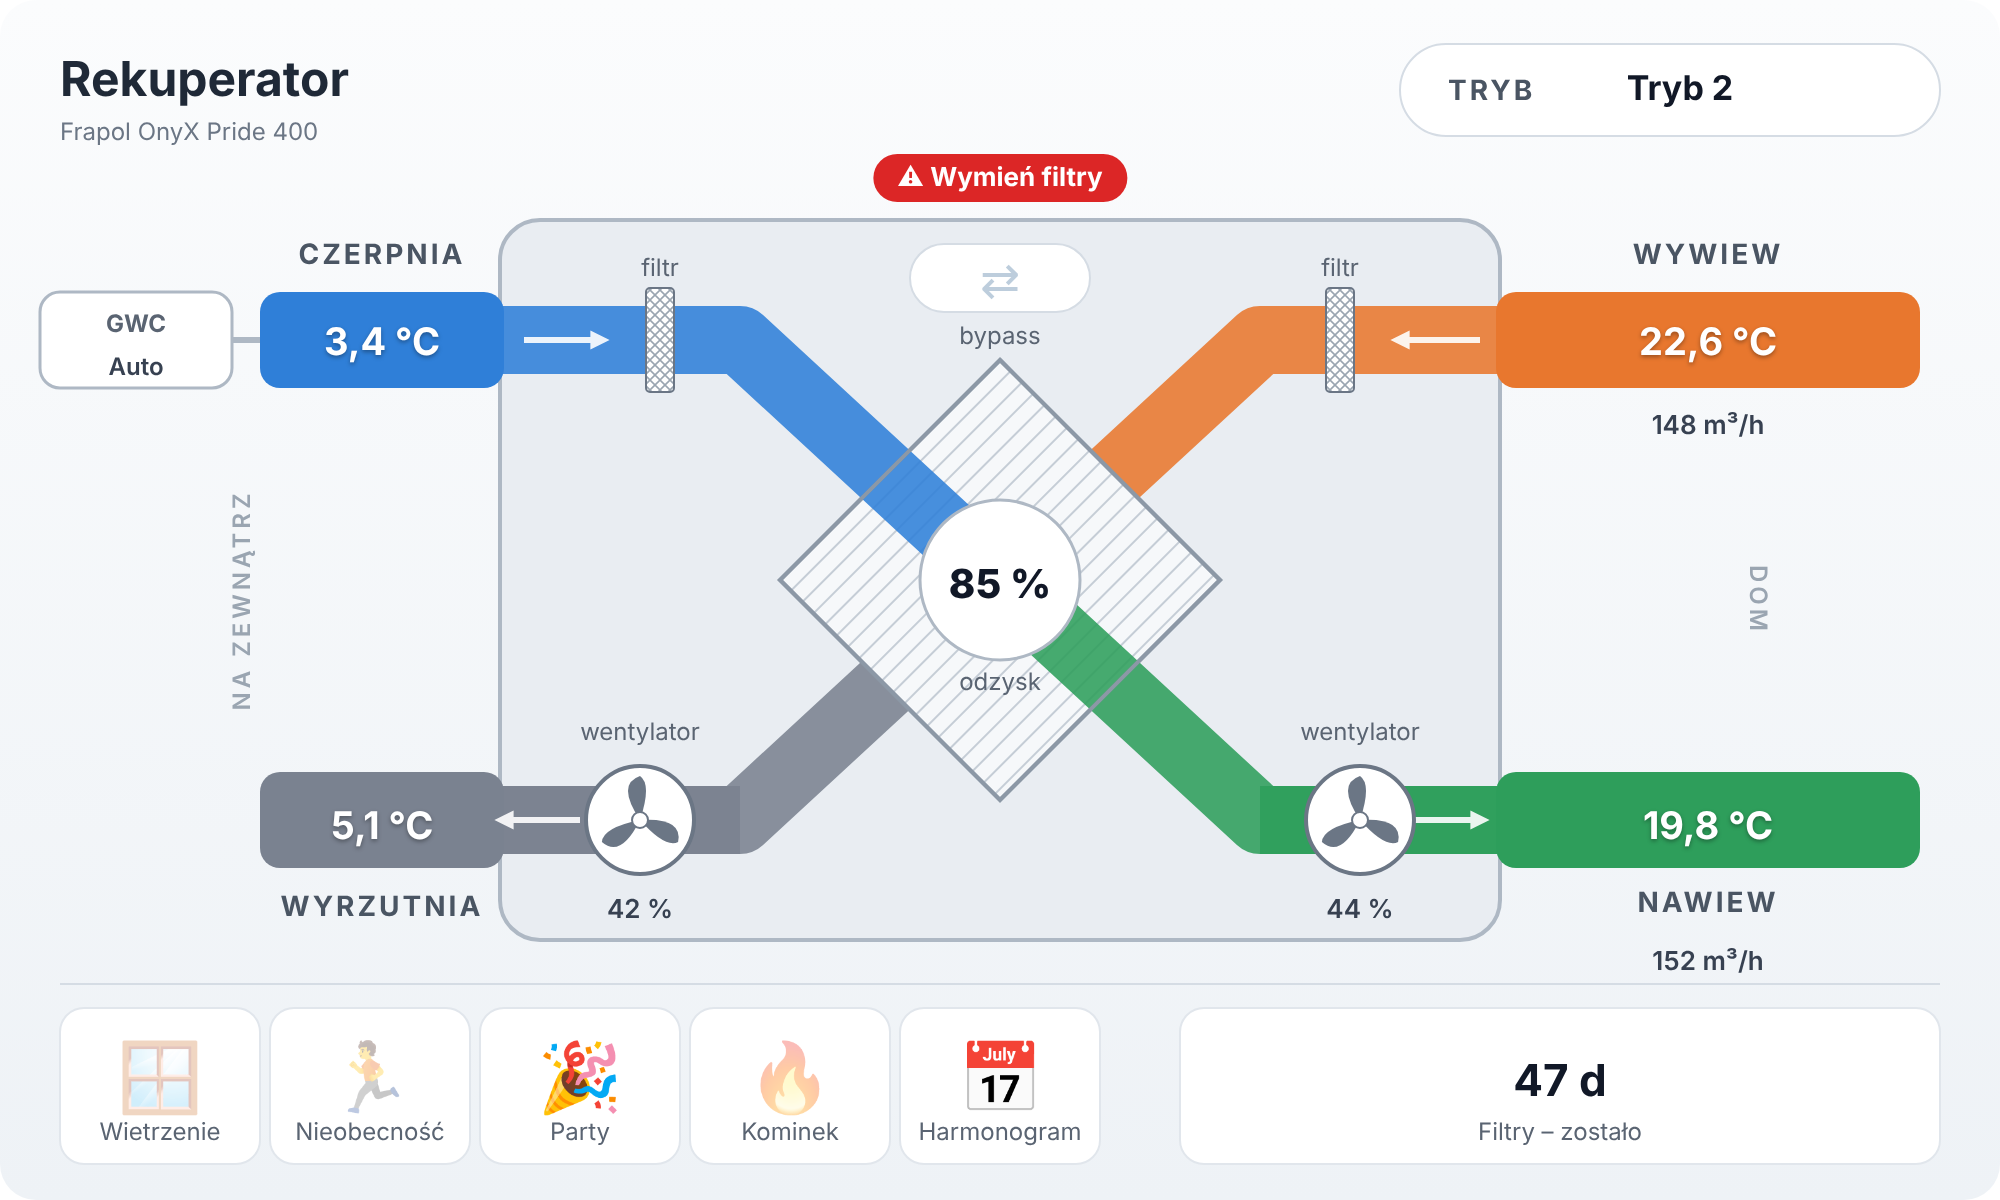
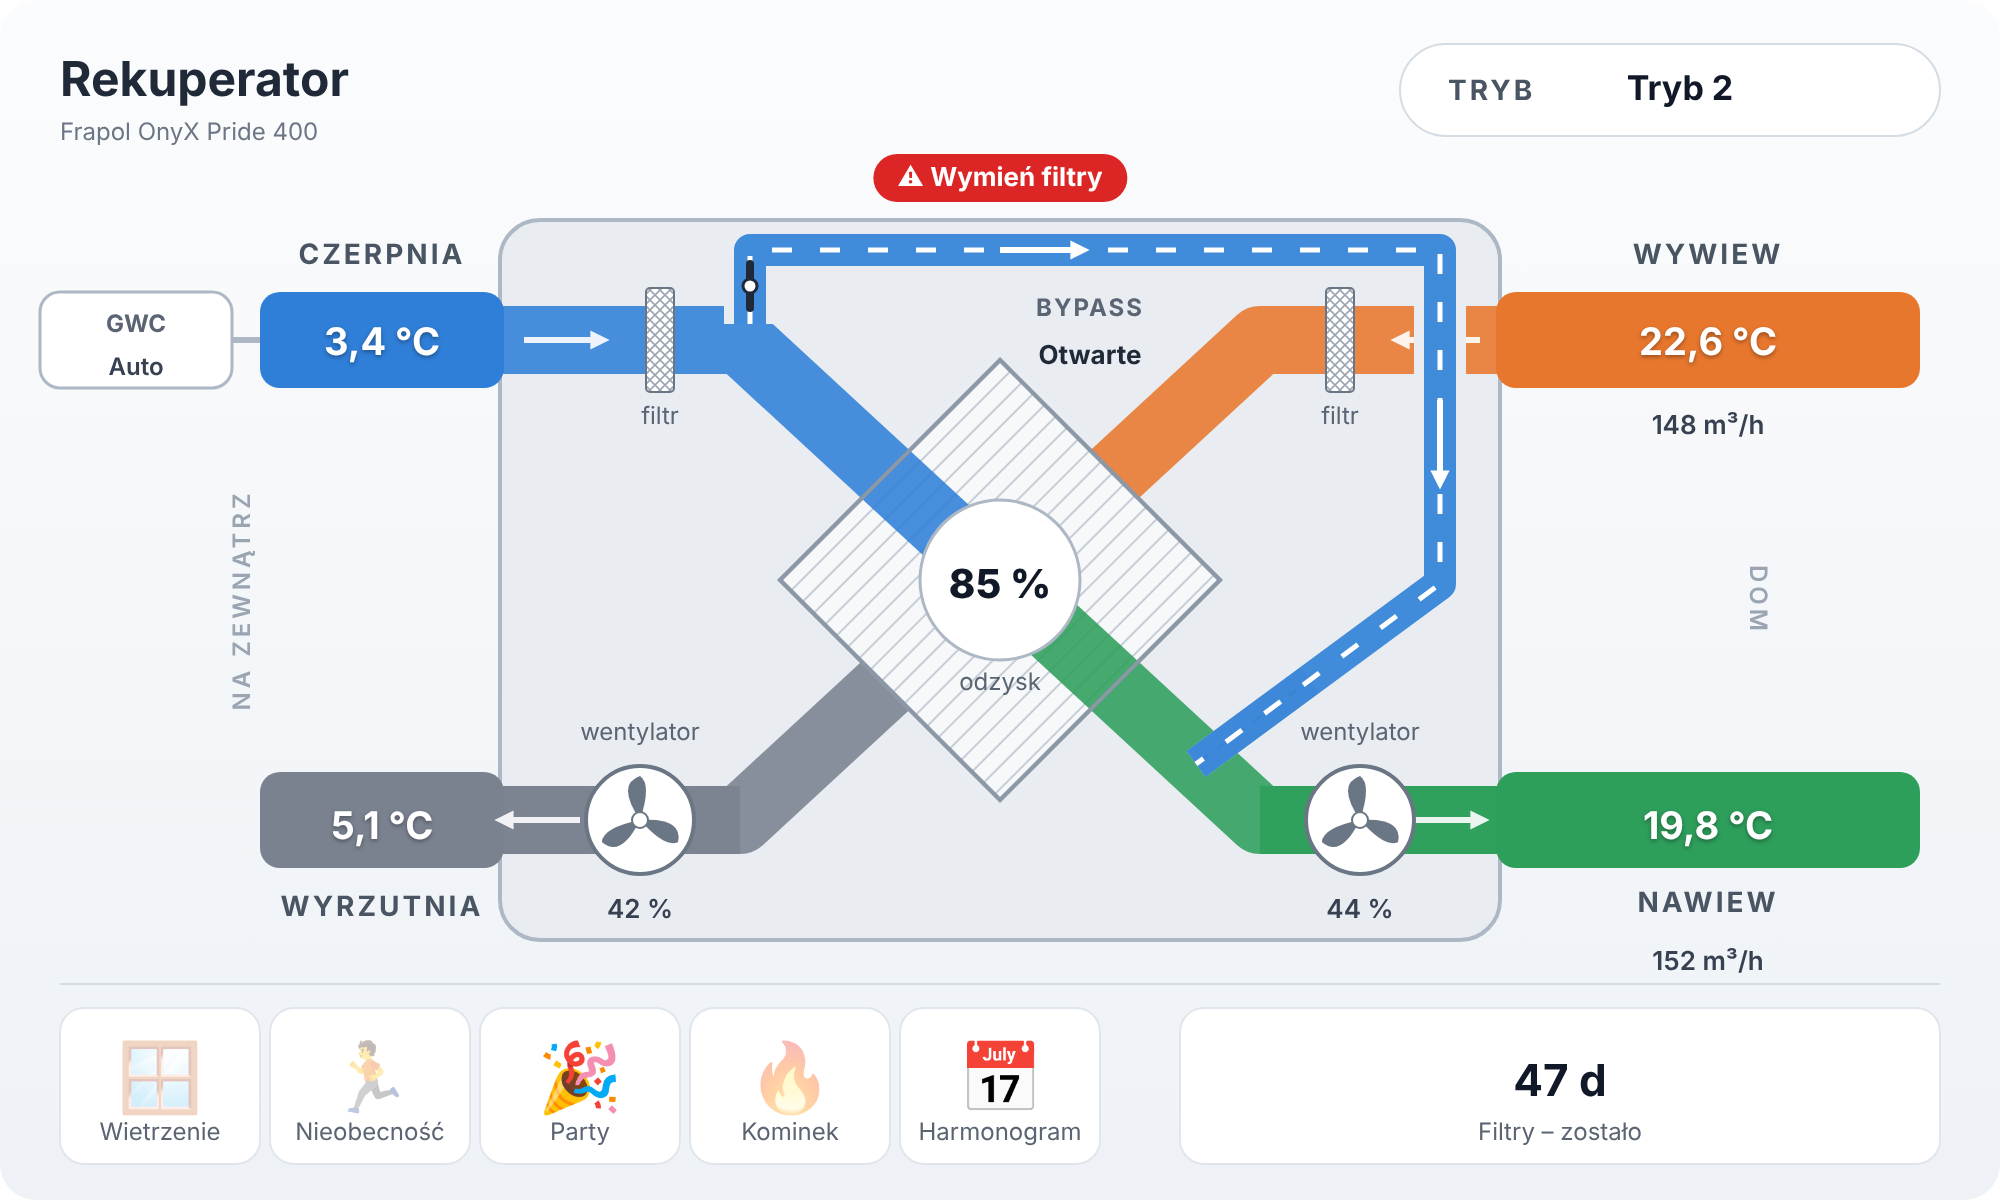
Karta HA: kanał bypassu z przepustnicą i stanem otwarty/zamknięty
Claude-Session: https://claude.ai/code/session_01R8YUZUrg6cfm7iCmu66c6t

Changed region(s): [[0.31, 0.185, 0.744, 0.6475], [0.651, 0.3392, 0.682, 0.37], [0.31, 0.3392, 0.341, 0.37]]

diff --git a/README.md b/README.md
@@ -38,8 +38,8 @@ Konfiguracja: [`esphome/rekuperator.yaml`](esphome/rekuperator.yaml) · Schemat:
 ## Karta w Home Assistant
 ![Podgląd karty](docs/podglad-karty.png)
 
-1. Skopiuj [`ha/rekuperator.svg`](ha/rekuperator.svg) do `/config/www/` w Home Assistant.
+1. Skopiuj [`ha/rekuperator.svg`](ha/rekuperator.svg) i [`ha/rekuperator-bypass.svg`](ha/rekuperator-bypass.svg) (nakładka pokazywana przy otwartym bypassie) do `/config/www/` w Home Assistant.
 2. Na dashboardzie wybierz Dodaj kartę → Ręcznie i wklej [`ha/karta-rekuperator.yaml`](ha/karta-rekuperator.yaml).
 3. Porównaj ID encji z listą w Ustawienia → Urządzenia → Rekuperator.
 
-Kliknięcie trybu lub GWC otwiera okno zmiany. Kliknięcie ikony w dolnym pasku przełącza tryb specjalny. Czerwone komunikaty (awaria, filtry, oszronienie) pojawiają się tylko wtedy, gdy alarm jest aktywny.
+Kliknięcie trybu lub GWC otwiera okno zmiany. Kliknięcie ikony w dolnym pasku przełącza tryb specjalny. Otwarty bypass jest podświetlony na niebiesko, zamknięty jest szary, a przepustnica jest ustawiona w poprzek kanału ([podgląd](docs/podglad-karty-bypass-zamkniety.png)). Czerwone komunikaty (awaria, filtry, oszronienie) pojawiają się tylko wtedy, gdy alarm jest aktywny.
